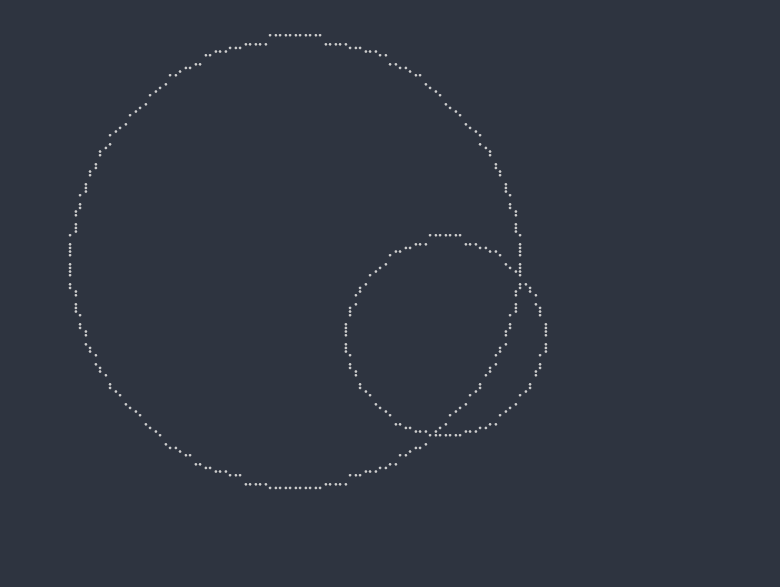
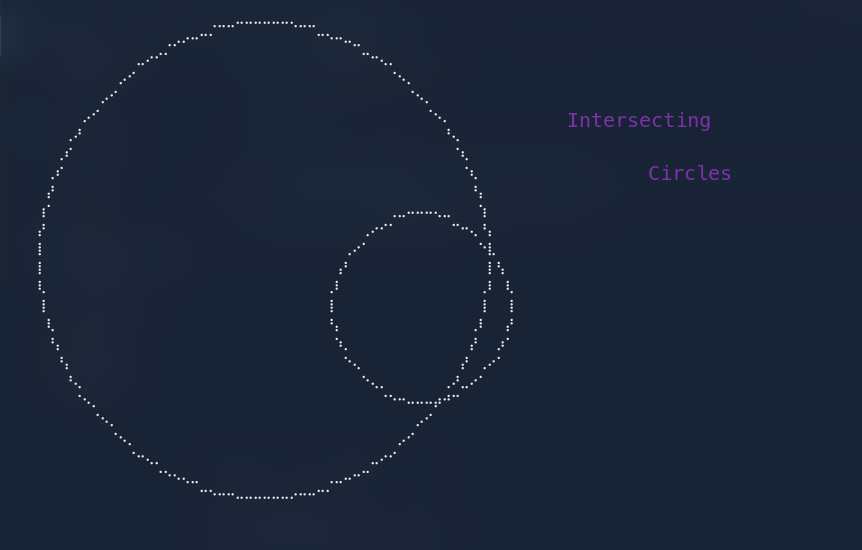
Circles: example and screenshot

diff --git a/tests/ellipse.c b/tests/ellipse.c
@@ -6,6 +6,7 @@ int main()
     pluto_canvas_t *canvas = pluto_init_canvas(0);
     pluto_clear(canvas);
     pluto_draw_ellipse(canvas, (pt_t){60, 60}, 60 / 2, 60 / 3);
-    pluto_draw_circle(canvas, (pt_t){60, 60}, 45);
+    pluto_draw_circle(canvas, (pt_t){60, 60}, 50);
+    pluto_draw_circle(canvas, (pt_t){95, 70}, 20);
     pluto_free_canvas(canvas);
 }
